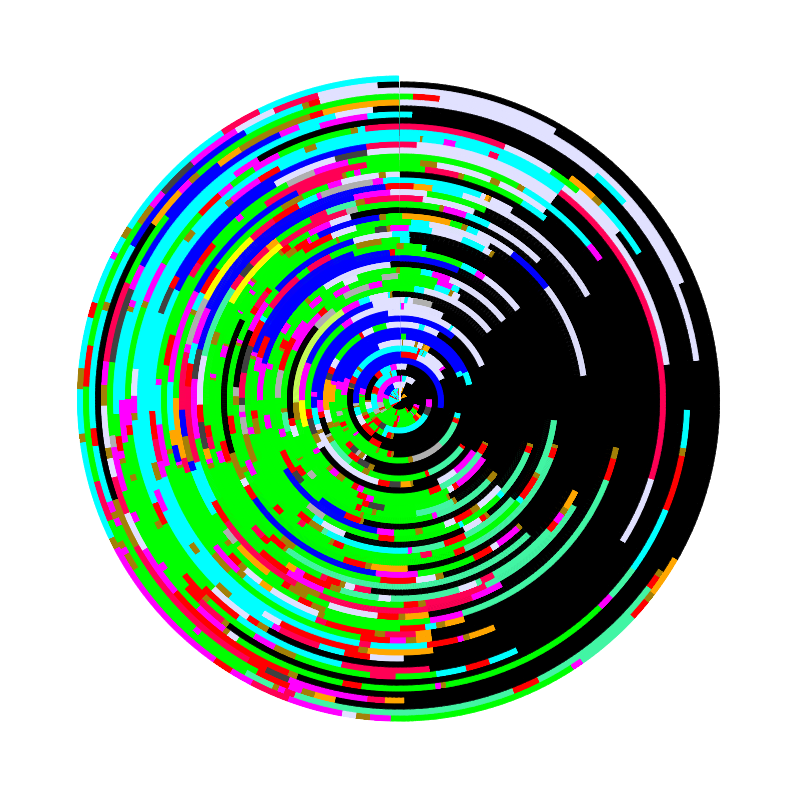
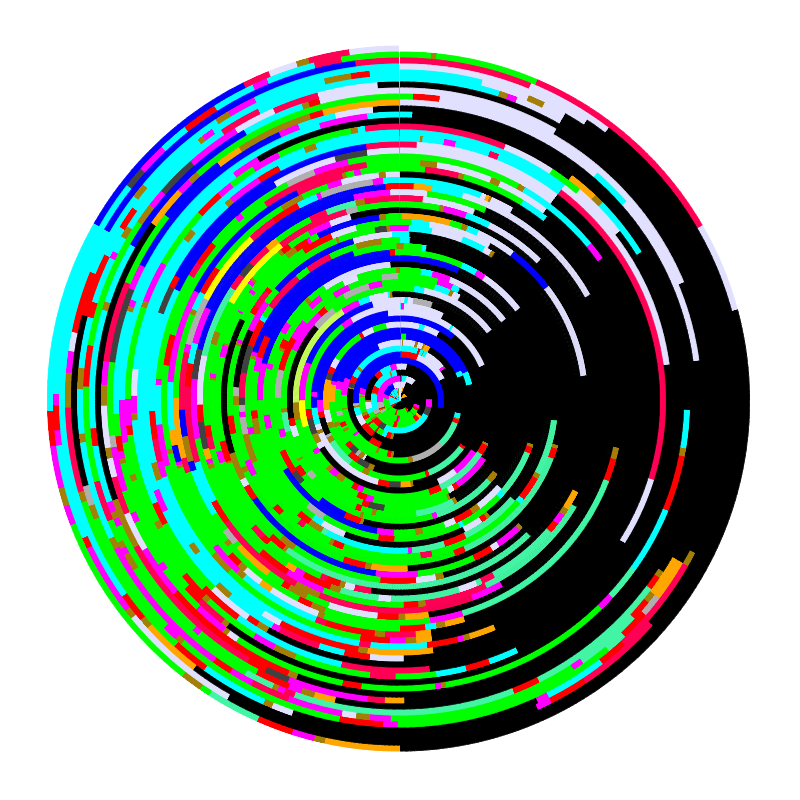
Added 4/9 through 4/13...fixed 3/9

Changed region(s): [[0.0312, 0.0312, 0.9375, 0.9375]]

diff --git a/index.html b/index.html
@@ -15,13 +15,13 @@
 		</div>
 	-->
 		<div class="inputDiv">
-			<label for="cRad">Pie Radius</label><input name="cRad" id="cRad" type="number" min="0.1" max="50" step="1" value="220">
+			<label for="cRad">Pie Radius</label><input name="cRad" id="cRad" type="number" min="0.1" max="50" step="1" value="240">
 		</div>
 		<div class="inputDiv">
-			<label for="sRad">Spiral Start Radius</label><input name="sRad" id="sRad" type="number" min="0.1" max="50" step="1" value="324">
+			<label for="sRad">Spiral Start Radius</label><input name="sRad" id="sRad" type="number" min="0.1" max="50" step="1" value="354">
 		</div>
 		<div class="inputDiv">
-			<label for="eRad">Spiral End Radius</label><input name="eRad" id="eRad" type="number" min="0.1" max="50" step="1" value="330">
+			<label for="eRad">Spiral End Radius</label><input name="eRad" id="eRad" type="number" min="0.1" max="50" step="1" value="360">
 		</div>
 		<div id="buttonDiv">
 			<label>Open .png <input type="file" id="impBtn" name="impBtn" accept=".png" onchange="importCanvas();"></label>
@@ -58,27 +58,21 @@
 			var ctx2 = canvas2.getContext("2d");
 
 			var myDay = [
-				['01:12','side work'],
-				['01:18','bathroom'],
-				['01:25','chores'],
-				['02:00','TV'],
-				['08:00','sleep'],
-				['08:30','reading'],
-				['08:45','admin'],
-				['09:06','eating'],
-				['09:21','apiary'],
-				['12:02','main work'],
-				['12:12','chores'],
-				['12:43','eating'],
-				['14:48','main work'],
-				['14:53','bathroom'],
-				['15:04','chores'],
-				['16:35','main work'],
-				['16:45','bathroom'],
-				['16:59','admin'],
-				['19:00','sleep'],
-				['19:45','eating'],
-				['20:06','side work'],
+				['01:30','TV'],
+				['12:50','sleep'],
+				['14:06','TV'],
+				['14:12','bathroom'],
+				['14:24','eating'],
+				['17:04','main work'],
+				['17:15','bathroom'],
+				['18:07','main work'],
+				['18:18','bathroom'],
+				['18:26','main work'],
+				['18:39','eating'],
+				['19:26','side work'],
+				['19:50','bathroom'],
+				['20:10','TV'],
+				['','side work'],
 			];
 
 			var categories = {
